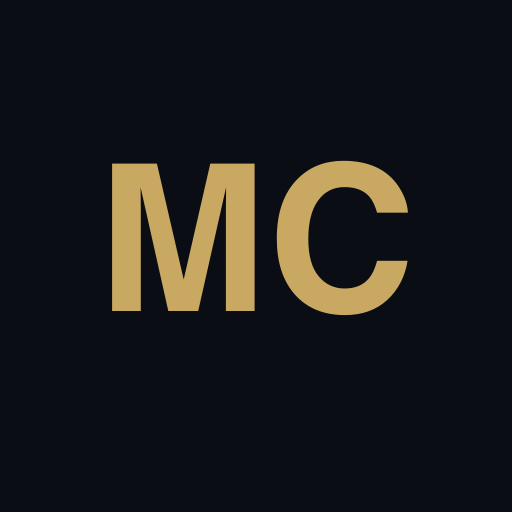
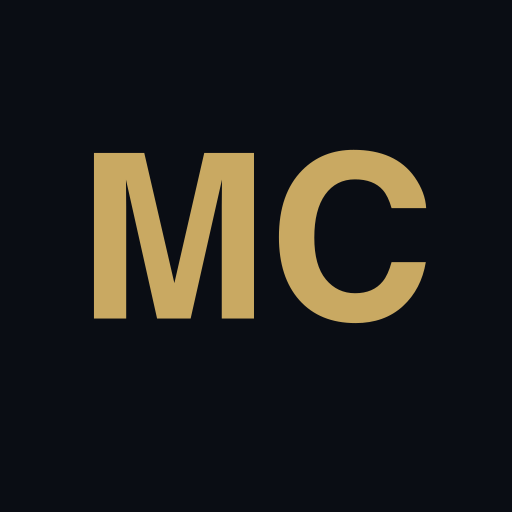
Add PWA support and new executive dashboard

diff --git a/generate-icons.js b/generate-icons.js
@@ -1,29 +1,54 @@
-const fs = require('fs');
 const { createCanvas } = require('canvas');
+const fs = require('fs');
+const path = require('path');
 
-function generateIcon(size, filename) {
+// Configuration
+const DARK_BG = '#0a0d14';
+const GOLD = '#c9a962';
+
+function generateIcon(size) {
   const canvas = createCanvas(size, size);
   const ctx = canvas.getContext('2d');
   
-  // Dark background
-  ctx.fillStyle = '#0a0d14';
+  // Fill background
+  ctx.fillStyle = DARK_BG;
   ctx.fillRect(0, 0, size, size);
   
-  // Gold "MC" text
-  ctx.fillStyle = '#c9a962';
-  ctx.font = `bold ${size * 0.4}px sans-serif`;
+  // Configure text
+  const fontSize = Math.floor(size * 0.45); // 45% of canvas size
+  ctx.font = `bold ${fontSize}px sans-serif`;
+  ctx.fillStyle = GOLD;
   ctx.textAlign = 'center';
   ctx.textBaseline = 'middle';
+  
+  // Draw "MC" text centered
   ctx.fillText('MC', size / 2, size / 2);
   
-  // Save to file
-  const buffer = canvas.toBuffer('image/png');
-  fs.writeFileSync(filename, buffer);
-  console.log(`Generated ${filename} (${size}x${size})`);
+  return canvas;
 }
 
-// Generate both icon sizes
-generateIcon(192, 'public/icon-192.png');
-generateIcon(512, 'public/icon-512.png');
+// Generate both icons
+console.log('Generating icons...');
 
-console.log('✓ PWA icons generated successfully!');
+const icon192 = generateIcon(192);
+const icon512 = generateIcon(512);
+
+const publicDir = path.join(__dirname, 'public');
+const icon192Path = path.join(publicDir, 'icon-192.png');
+const icon512Path = path.join(publicDir, 'icon-512.png');
+
+// Ensure public directory exists
+if (!fs.existsSync(publicDir)) {
+  fs.mkdirSync(publicDir, { recursive: true });
+}
+
+// Save icons
+const buffer192 = icon192.toBuffer('image/png');
+const buffer512 = icon512.toBuffer('image/png');
+
+fs.writeFileSync(icon192Path, buffer192);
+fs.writeFileSync(icon512Path, buffer512);
+
+console.log('✓ Generated icon-192.png');
+console.log('✓ Generated icon-512.png');
+console.log('Icons created successfully!');
